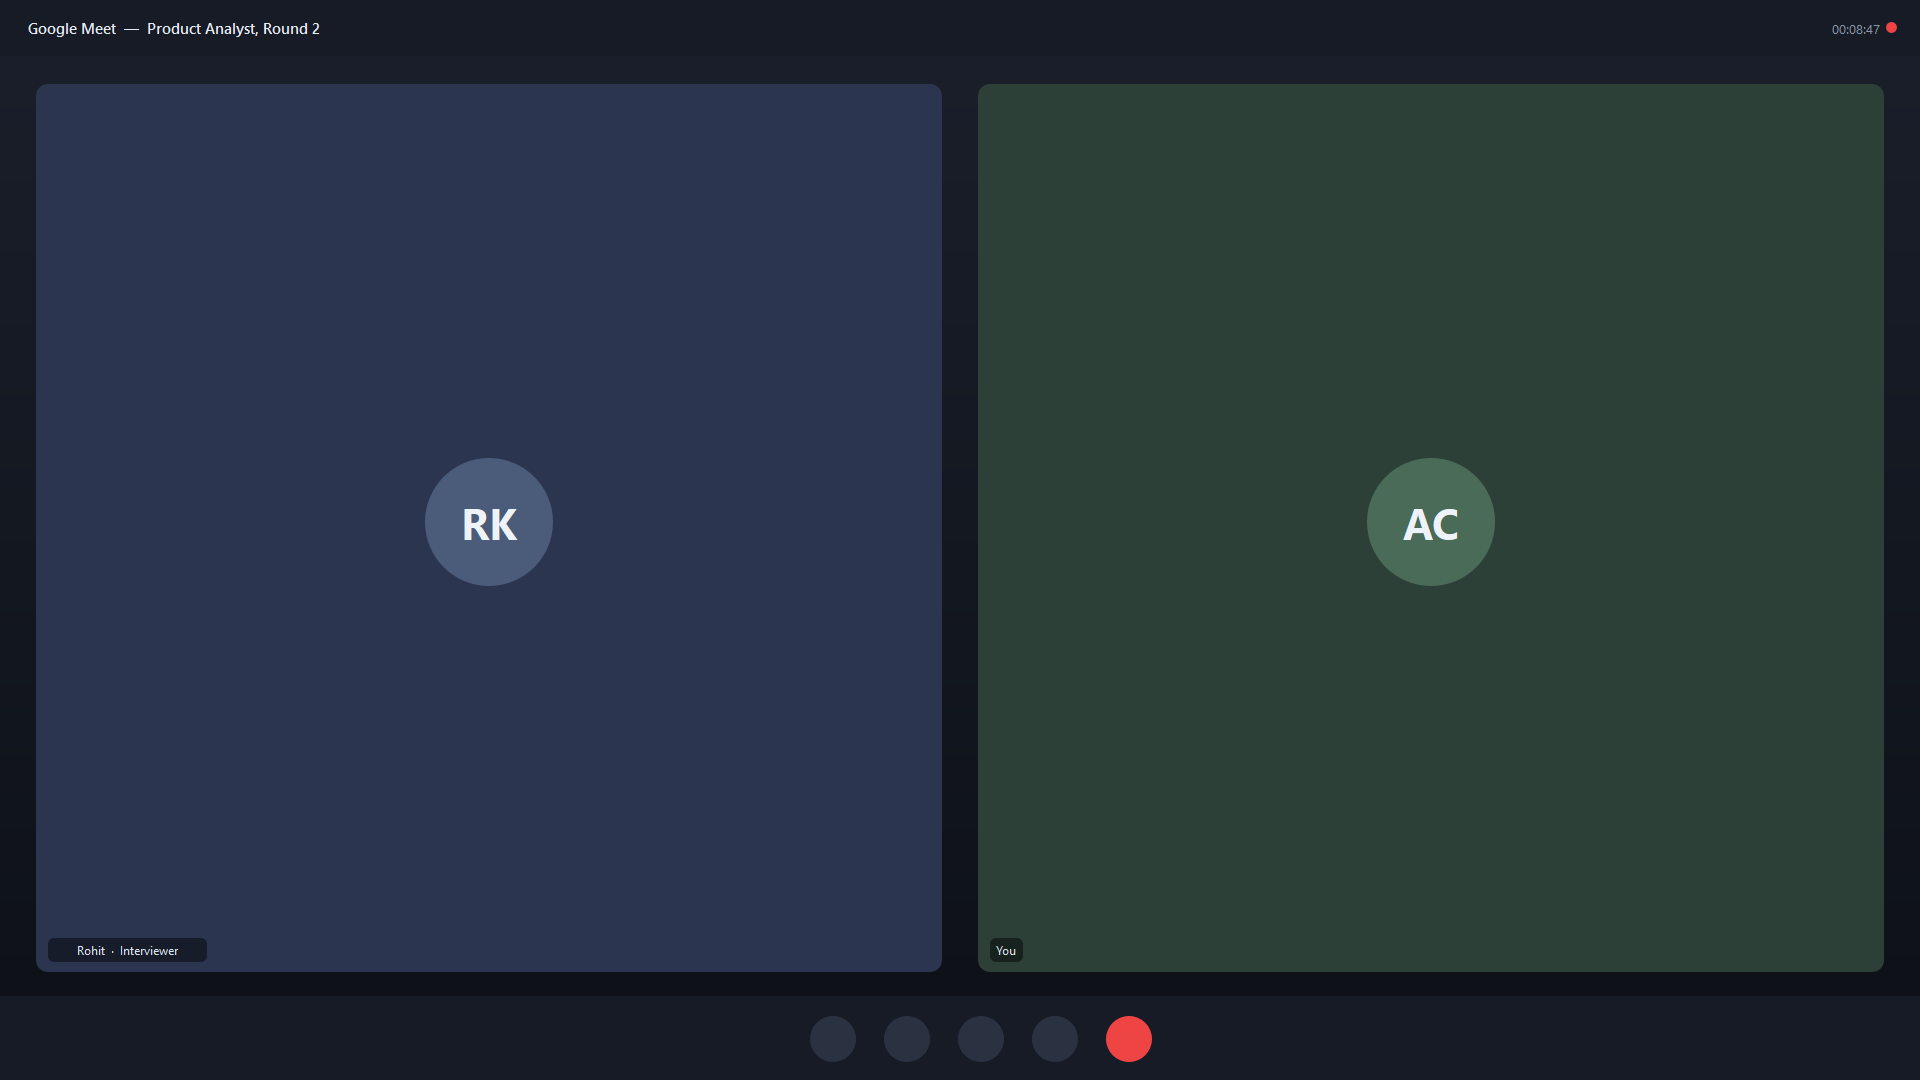
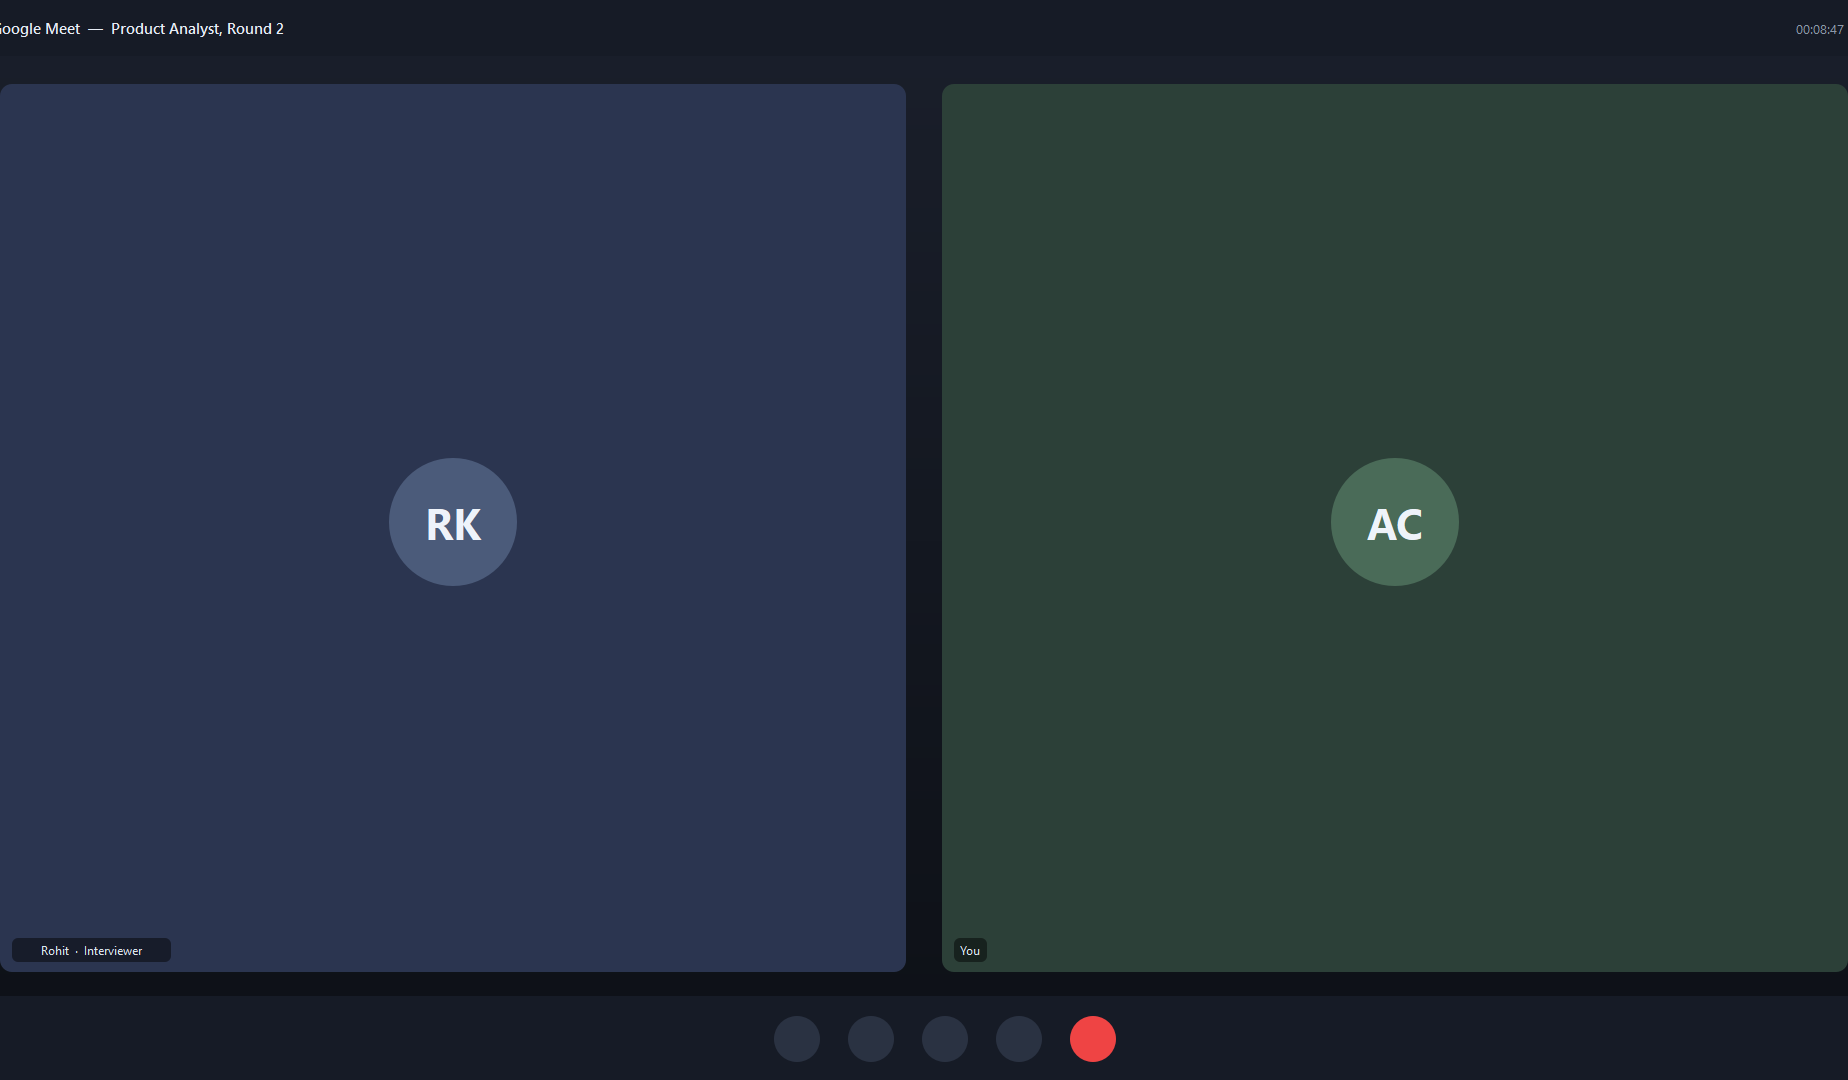
Hero screenshot: trim dead margins, break out of the text column
Panel drew at 46% scale and was unreadable. Trimmed the page-background
margins (1920 -> 1848) and let the hero figure break out to 1280px, so the
panel now draws at 495px instead of 386px.

Mirrored from AI-Helps_SAAS 0d24ea1.

diff --git a/index.html b/index.html
@@ -221,6 +221,8 @@
 </style>
 <style>
   .tg{max-width:1120px;margin:0 auto}
+  /* the panel is only 39% of the screenshot, so the hero figure breaks out of the text column */
+  .hero .tg{max-width:1280px;width:calc(100vw - 44px);margin-left:50%;transform:translateX(-50%)}
   .tgbar{display:flex;gap:8px;justify-content:center;margin-bottom:16px;flex-wrap:wrap}
   .tgb{appearance:none;cursor:pointer;font:inherit;font-size:14px;font-weight:600;color:var(--muted);
        background:#fff;border:1px solid var(--line2);border-radius:999px;padding:9px 20px;transition:all .15s}
@@ -277,7 +279,7 @@
       <button class="tgb" id="tgThem" role="tab" aria-selected="false" aria-controls="tgImg">What the interviewer sees</button>
     </div>
     <figure class="tgfig">
-      <img id="tgImg" src="assets/shot-you-see.png" width="1920" height="1080"
+      <img id="tgImg" src="assets/shot-you-see.png" width="1848" height="1080"
            alt="A Google Meet interview with the Interview Sarthi panel over it, drafting a Hinglish answer from the candidate's own project.">
       <figcaption id="tgCap"><b>Your screen.</b> The interviewer asked in Hinglish; the answer came back in Hinglish, built from your resume.</figcaption>
     </figure>
